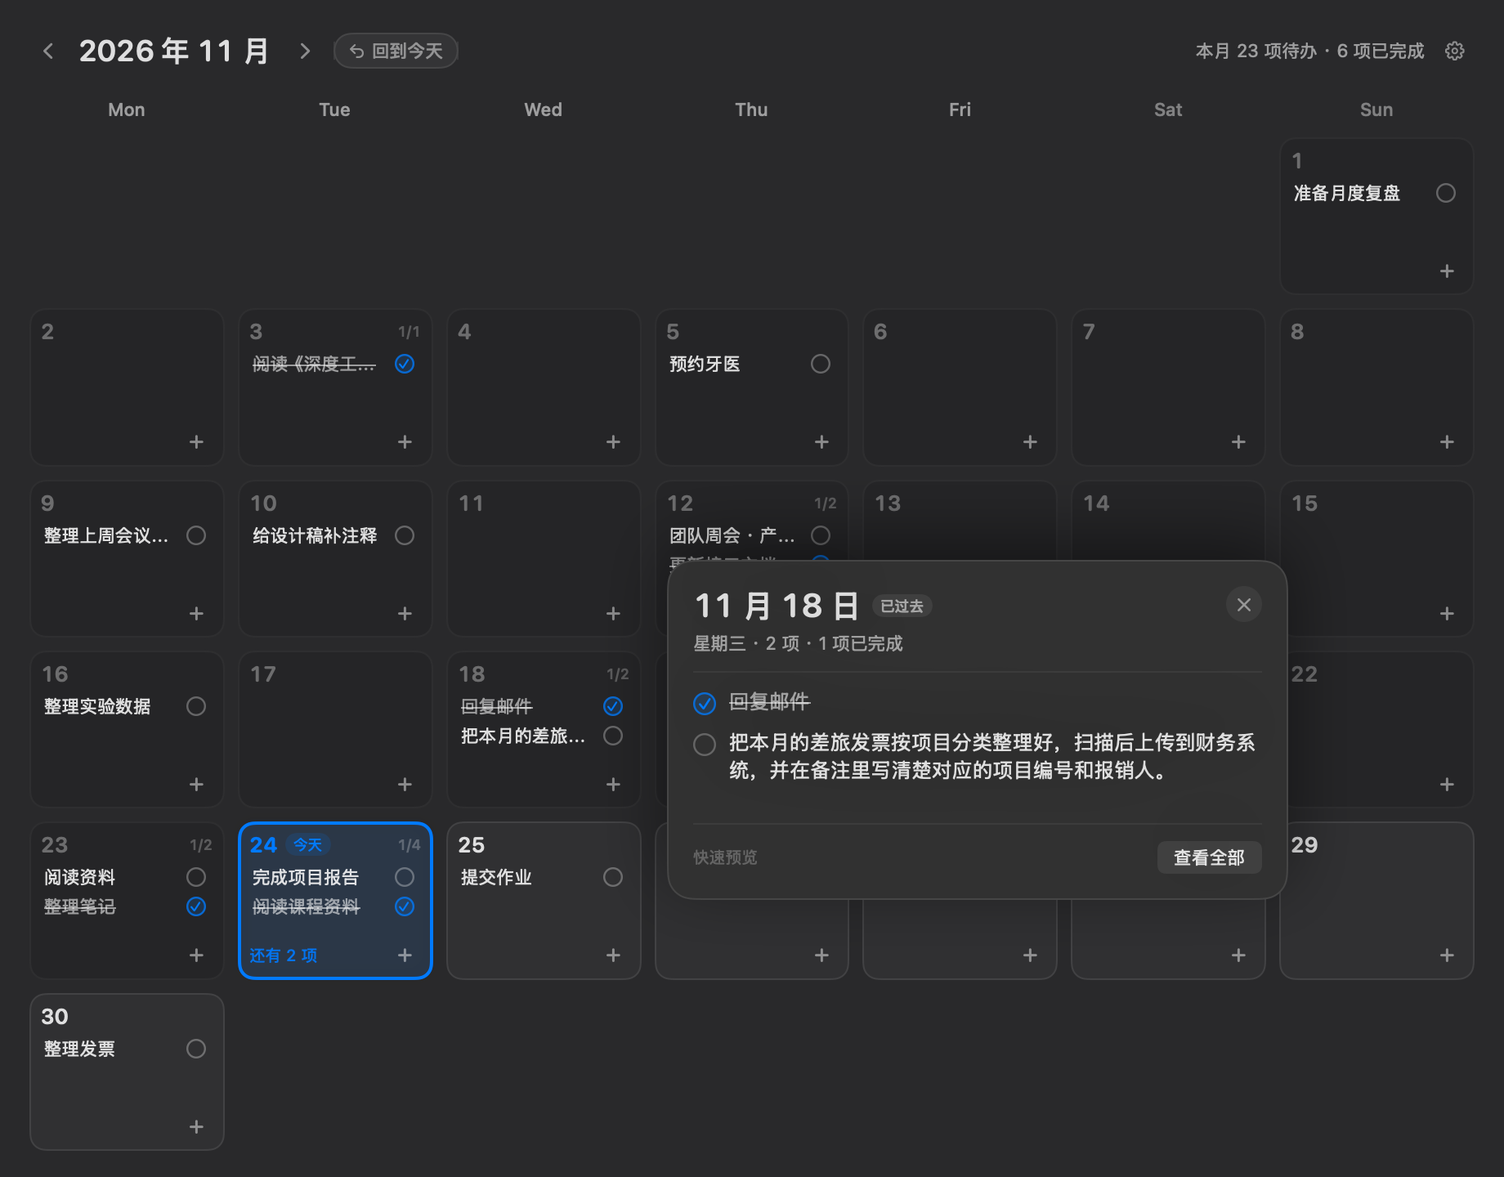
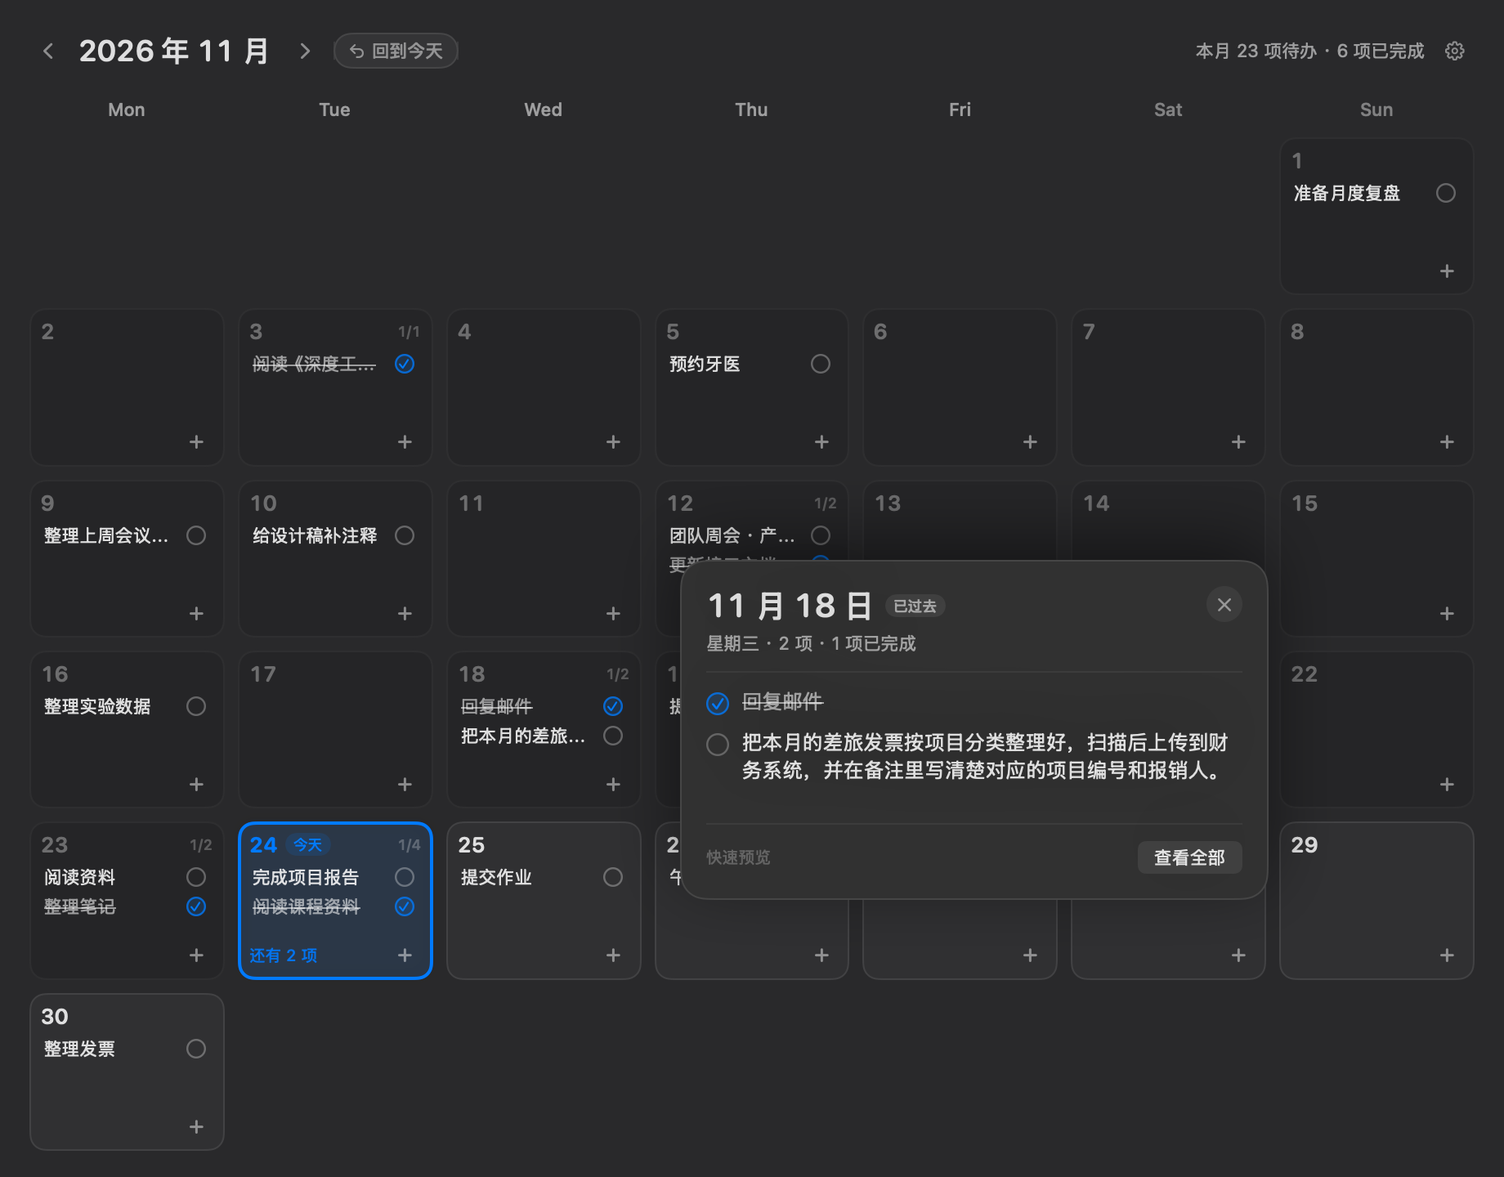
fix: keep hover preview clear of the hovered day
Move the hover card to a 360pt shell with a 24pt gap, keep the day box frame fresh on every layout, and add no-overlap tests for every position in 4/5/6-row months.

diff --git a/MemoBar/Views/HoverPreviewView.swift b/MemoBar/Views/HoverPreviewView.swift
@@ -23,8 +23,8 @@ struct HoverPreviewOverlay: View {
     }
 }
 
-/// Measures the card, then decides whether it sits to the right or the left of
-/// the hovered day box.
+/// Places the card beside the hovered day box. The placement math lives in
+/// `HoverPreviewLayout` and guarantees the card never covers the anchor box.
 private struct HoverPreviewPlacement: View {
     let dateKey: String
     let anchorFrame: CGRect
@@ -32,44 +32,21 @@ private struct HoverPreviewPlacement: View {
 
     @EnvironmentObject private var store: MemoStore
 
-    private let margin: CGFloat = 14
-    private let gap: CGFloat = 16
-
     var body: some View {
         let items = store.items(for: dateKey)
         let size = CGSize(
-            width: HoverPreviewMetrics.width,
-            height: HoverPreviewMetrics.cardHeight(for: items)
+            width: HoverPreviewLayout.width,
+            height: HoverPreviewLayout.cardHeight(for: items)
+        )
+        let origin = HoverPreviewLayout.cardOrigin(
+            anchor: anchorFrame,
+            panelSize: panelSize,
+            cardSize: size
         )
 
         HoverPreviewCard(dateKey: dateKey)
-            .frame(width: HoverPreviewMetrics.width)
-            .position(position(for: size))
-    }
-
-    private func position(for size: CGSize) -> CGPoint {
-        let width = size.width
-        let height = size.height
-
-        let rightSpace = panelSize.width - anchorFrame.maxX - margin
-        let leftSpace = anchorFrame.minX - margin
-        let required = width + gap
-
-        var x: CGFloat
-        if rightSpace >= required {
-            x = anchorFrame.maxX + gap + width / 2
-        } else if leftSpace >= required {
-            x = anchorFrame.minX - gap - width / 2
-        } else {
-            x = rightSpace >= leftSpace
-                ? anchorFrame.maxX + gap + width / 2
-                : anchorFrame.minX - gap - width / 2
-        }
-        x = min(max(x, margin + width / 2), panelSize.width - margin - width / 2)
-
-        var y = anchorFrame.midY
-        y = min(max(y, margin + height / 2), panelSize.height - margin - height / 2)
-        return CGPoint(x: x, y: y)
+            .frame(width: size.width)
+            .position(x: origin.x + size.width / 2, y: origin.y + size.height / 2)
     }
 }
 
@@ -87,10 +64,10 @@ private struct HoverPreviewCard: View {
         let completed = items.reduce(into: 0) { count, item in
             if item.isCompleted { count += 1 }
         }
-        let estimatedHeight = HoverPreviewMetrics.estimatedItemsHeight(for: items)
+        let estimatedHeight = HoverPreviewLayout.estimatedItemsHeight(for: items)
         let effectiveHeight = measuredItemsHeight > 0 ? measuredItemsHeight : estimatedHeight
-        let itemsViewport = min(max(effectiveHeight, 1), HoverPreviewMetrics.maxItemsHeight)
-        let scrolls = effectiveHeight > HoverPreviewMetrics.maxItemsHeight
+        let itemsViewport = min(max(effectiveHeight, 1), HoverPreviewLayout.maxItemsHeight)
+        let scrolls = effectiveHeight > HoverPreviewLayout.maxItemsHeight
 
         VStack(alignment: .leading, spacing: 0) {
             header(items: items, completed: completed)
@@ -122,7 +99,7 @@ private struct HoverPreviewCard: View {
                 .padding(.top, 10)
         }
         .padding(16)
-        .frame(width: HoverPreviewMetrics.width, alignment: .leading)
+        .frame(width: HoverPreviewLayout.width, alignment: .leading)
         .background {
             ZStack {
                 RoundedRectangle(cornerRadius: 16, style: .continuous)
@@ -213,37 +190,6 @@ private struct HoverPreviewCard: View {
         }
     }
 
-}
-
-/// Geometry shared by the card, its scroll viewport and the positioning logic.
-enum HoverPreviewMetrics {
-    static let width: CGFloat = 380
-    static let maxItemsHeight: CGFloat = 360
-    static let chromeHeight: CGFloat = 116
-
-    /// Rough content height used for positioning before the card has laid out.
-    static func estimatedItemsHeight(for items: [MemoItem]) -> CGFloat {
-        guard !items.isEmpty else { return 30 }
-        let usableWidth: CGFloat = width - 32 - 14 - 8
-        let charsPerLine = max(12, usableWidth / 12.5)
-
-        var lineCount: CGFloat = 0
-        for item in items {
-            let visualLength = item.text.reduce(CGFloat(0)) { length, character in
-                length + (character.isASCII ? 0.55 : 1)
-            }
-            lineCount += max(1, ceil(visualLength / charsPerLine))
-        }
-        return lineCount * 18 + CGFloat(items.count) * 9 + 20
-    }
-
-    static func cardHeight(for items: [MemoItem]) -> CGFloat {
-        let itemsHeight = min(
-            max(estimatedItemsHeight(for: items), 1),
-            maxItemsHeight
-        )
-        return chromeHeight + itemsHeight
-    }
 }
 
 private struct HoverPreviewItemRow: View {

diff --git a/MemoBar/Models/HoverPreviewLayout.swift b/MemoBar/Models/HoverPreviewLayout.swift
@@ -1,0 +1,93 @@
+import CoreGraphics
+import Foundation
+
+/// Geometry and placement for the hover "quick look" card. Kept in the model
+/// layer so the no-overlap guarantee can be unit tested without SwiftUI.
+enum HoverPreviewLayout {
+    static let width: CGFloat = 360
+    static let maxItemsHeight: CGFloat = 360
+    static let chromeHeight: CGFloat = 116
+    static let gap: CGFloat = 24
+    static let margin: CGFloat = 14
+
+    /// Rough content height, used only to place the card before the actual
+    /// scroll area has laid out.
+    static func estimatedItemsHeight(for items: [MemoItem]) -> CGFloat {
+        guard !items.isEmpty else { return 30 }
+        let usableWidth = width - 32 - 14 - 8
+        let charsPerLine = max(12, usableWidth / 12.5)
+
+        var lineCount: CGFloat = 0
+        for item in items {
+            let visualLength = item.text.reduce(CGFloat(0)) { length, character in
+                length + (character.isASCII ? 0.55 : 1)
+            }
+            lineCount += max(1, ceil(visualLength / charsPerLine))
+        }
+        return lineCount * 18 + CGFloat(items.count) * 9 + 20
+    }
+
+    static func cardHeight(for items: [MemoItem]) -> CGFloat {
+        let itemsHeight = min(
+            max(estimatedItemsHeight(for: items), 1),
+            maxItemsHeight
+        )
+        return chromeHeight + itemsHeight
+    }
+
+    /// Top-left origin for the card in panel coordinates. The card is placed to
+    /// the right or left of the day box with a gap, and only falls back to
+    /// above/below if neither side fits. It therefore never covers the hovered
+    /// day box.
+    static func cardOrigin(anchor: CGRect, panelSize: CGSize, cardSize: CGSize) -> CGPoint {
+        let cardWidth = cardSize.width
+        let cardHeight = cardSize.height
+        let rightSpace = panelSize.width - anchor.maxX - margin
+        let leftSpace = anchor.minX - margin
+        let required = cardWidth + gap
+
+        var x: CGFloat
+        if rightSpace >= required {
+            x = anchor.maxX + gap
+        } else if leftSpace >= required {
+            x = anchor.minX - gap - cardWidth
+        } else {
+            // Keep the card on the roomier side; with the 360 pt card on a
+            // 920 pt panel this branch is normally unreachable.
+            x = rightSpace >= leftSpace
+                ? panelSize.width - margin - cardWidth
+                : margin
+        }
+        x = min(max(x, margin), panelSize.width - margin - cardWidth)
+
+        var y = anchor.midY - cardHeight / 2
+        y = min(max(y, margin), panelSize.height - margin - cardHeight)
+
+        var frame = CGRect(x: x, y: y, width: cardWidth, height: cardHeight)
+
+        // Safety net: if clamping ever produced an overlap, move the card above
+        // or below the anchor instead of covering it.
+        if frame.intersects(anchor) {
+            let centeredX = min(
+                max(anchor.midX - cardWidth / 2, margin),
+                panelSize.width - margin - cardWidth
+            )
+            let below = anchor.maxY + gap
+            let above = anchor.minY - gap - cardHeight
+            if below + cardHeight <= panelSize.height - margin {
+                frame.origin = CGPoint(x: centeredX, y: below)
+            } else if above >= margin {
+                frame.origin = CGPoint(x: centeredX, y: above)
+            }
+        }
+
+        return frame.origin
+    }
+
+    static func cardFrame(anchor: CGRect, panelSize: CGSize, cardSize: CGSize) -> CGRect {
+        CGRect(
+            origin: cardOrigin(anchor: anchor, panelSize: panelSize, cardSize: cardSize),
+            size: cardSize
+        )
+    }
+}

diff --git a/Tests/MemoBarTests.swift b/Tests/MemoBarTests.swift
@@ -159,6 +159,47 @@ struct MemoBarTests {
         hoverPanel.dismissHoverPreview()
         expect(hoverPanel.hoverPreview == nil, "explicit dismissal clears the card")
 
+        print("Hover preview placement")
+        let panelSize = CGSize(width: PanelMetrics.width, height: PanelMetrics.height)
+        let horizontalPadding: CGFloat = 18
+        let columnWidth = (panelSize.width - horizontalPadding * 2 - PanelMetrics.gridSpacing * 6) / 7
+        let gridTop: CGFloat = 16 + 30 + 12 + 18 + 8
+        let cardHeights: [CGFloat] = [150, 300, HoverPreviewLayout.chromeHeight + HoverPreviewLayout.maxItemsHeight]
+
+        for rows in [4, 5, 6] {
+            let rowHeight = (PanelMetrics.gridAreaHeight - CGFloat(rows - 1) * PanelMetrics.gridSpacing) / CGFloat(rows)
+            var problems: [String] = []
+
+            for row in 0..<rows {
+                for column in 0..<7 {
+                    let anchor = CGRect(
+                        x: horizontalPadding + CGFloat(column) * (columnWidth + PanelMetrics.gridSpacing),
+                        y: gridTop + CGFloat(row) * (rowHeight + PanelMetrics.gridSpacing),
+                        width: columnWidth,
+                        height: rowHeight
+                    )
+                    for cardHeight in cardHeights {
+                        let cardSize = CGSize(width: HoverPreviewLayout.width, height: cardHeight)
+                        let frame = HoverPreviewLayout.cardFrame(
+                            anchor: anchor,
+                            panelSize: panelSize,
+                            cardSize: cardSize
+                        )
+                        if frame.intersects(anchor) {
+                            problems.append("overlaps row \(row) column \(column) height \(cardHeight)")
+                        }
+                        let safeBounds = CGRect(origin: .zero, size: panelSize)
+                            .insetBy(dx: HoverPreviewLayout.margin - 0.5, dy: HoverPreviewLayout.margin - 0.5)
+                        if !safeBounds.contains(frame) {
+                            problems.append("outside panel row \(row) column \(column)")
+                        }
+                    }
+                }
+            }
+
+            expect(problems.isEmpty, "hover card stays clear of every day box in \(rows)-row months")
+        }
+
         print("")
         if failures == 0 {
             print("All \(checks) checks passed.")

diff --git a/MemoBar/Views/DayBoxView.swift b/MemoBar/Views/DayBoxView.swift
@@ -61,12 +61,17 @@ struct DayBoxView: View {
         )
         .background(
             GeometryReader { proxy in
+                let frame = proxy.frame(in: .global)
                 Color.clear
-                    .onAppear {
-                        boxFrame = proxy.frame(in: .global)
-                    }
+                    .onAppear { boxFrame = frame }
+                    .preference(key: DayBoxFramePreferenceKey.self, value: frame)
             }
         )
+        .onPreferenceChange(DayBoxFramePreferenceKey.self) { frame in
+            if frame != boxFrame {
+                boxFrame = frame
+            }
+        }
         .contentShape(RoundedRectangle(cornerRadius: Theme.boxCornerRadius, style: .continuous))
         .onHover { inside in
             hovering = inside
@@ -194,5 +199,13 @@ struct DayBoxView: View {
                 radius: isToday ? 5 : 2,
                 y: 1
             )
+    }
+}
+
+private struct DayBoxFramePreferenceKey: PreferenceKey {
+    static var defaultValue: CGRect = .zero
+
+    static func reduce(value: inout CGRect, nextValue: () -> CGRect) {
+        value = nextValue()
     }
 }

diff --git a/README.md b/README.md
@@ -107,7 +107,8 @@ make preview
 │   │   ├── DateKey.swift             # 日期字符串、周一起始日历、中文日期文案
 │   │   ├── MemoItem.swift            # 条目与顶层数据模型
 │   │   ├── MonthGrid.swift           # 月历网格（前导空格、行数、日期）
-│   │   └── PanelMetrics.swift        # 面板尺寸常量
+│   │   ├── PanelMetrics.swift        # 面板尺寸常量
+│   │   └── HoverPreviewLayout.swift  # 悬停卡片尺寸、定位、不遮挡计算
 │   ├── Services
 │   │   ├── MemoFileStore.swift       # JSON 原子读写、备份、损坏恢复
 │   │   └── LaunchAtLogin.swift       # LaunchAgent 开机启动
@@ -128,7 +129,7 @@ make preview
 │       ├── Info.plist
 │       ├── AppIcon.icns
 │       └── AppIcon-1024.png
-├── Tests/MemoBarTests.swift          # 55 项模型、持久化与悬停状态检查
+├── Tests/MemoBarTests.swift          # 58 项模型、持久化、悬停状态与布局检查
 ├── Tools/PreviewRender/PreviewRenderer.swift  # 离屏 NSWindow 截图工具
 ├── scripts                           # build / test / preview / icon
 ├── docs/screenshots                  # README 截图
@@ -144,13 +145,13 @@ make preview
 - `MenuBarExtra` 负责菜单栏入口和面板生命周期，内容全部在同一个面板中切换（月历 / 当天 / 设置），不叠加弹窗。
 - 面板关闭后没有轮询；日期刷新只依赖系统通知和下一次午夜的一次性定时器。
 - 日期框空白处的双击通过背景层的双击手势实现，按钮、日期数字和条目文字仍保留各自的点击/双击行为。
-- 悬停预览有 0.4 秒意图延迟；卡片会根据日期框在面板中的位置自动放在左侧或右侧，并夹在面板边界内，不遮挡当前日期框。日期框和卡片各自上报悬停状态，只有两者都离开才收起，因此从日期移入卡片不会误隐藏。卡片内容区按实际高度展开，超过 360 pt 后内部滚动。
+- 悬停预览有 0.4 秒意图延迟；卡片会根据日期框在面板中的位置自动放在左侧或右侧，并保证与当前日期框至少留出 24 pt 间距、不与其相交。布局逻辑抽到 `HoverPreviewLayout`，用 4/5/6 行月份的所有行列做了不遮挡与边界测试；日期框位置在每次布局后更新，避免换月后使用旧锚点。日期框和卡片各自上报悬停状态，只有两者都离开才收起。卡片内容区按实际高度展开，超过 360 pt 后内部滚动。
 - 已完成条目的灰色从浅色到深色模式都保持可读，过去日期的未完成事项仍使用正常文字色，与已完成事项区分。
 - 界面使用系统字体和 SF Symbols，不引入图片资源或 UI 框架。
 
 ## 验证情况
 
-- `make test`：55 项检查全部通过，覆盖闰年 2 月、4/5/6 行月份、跨年月份切换、Mon–Sun 星期表头、增删改、完成状态、排序、重启恢复、原子保存、备份恢复、损坏文件保留，以及悬停预览在两种事件顺序下的保留/收起行为。
+- `make test`：58 项检查全部通过，覆盖闰年 2 月、4/5/6 行月份、跨年月份切换、Mon–Sun 星期表头、增删改、完成状态、排序、重启恢复、原子保存、备份恢复、损坏文件保留，悬停预览在两种事件顺序下的保留/收起行为，以及 4/5/6 行月份下所有日期位置的卡片不遮挡与边界检查。
 - 已用离屏窗口渲染检查浅色/深色月历、4 行与 6 行月份、内联添加、编辑态、空状态、撤销提示、设置页，以及悬停放大卡片（含多条长事项的限高滚动）。
 - 使用真实窗口事件验证了日期框空白处双击会打开内联输入框。
 - 实际构建并启动后确认菜单栏出现可见的 `NSStatusBarWindow`（32 × 33 pt，遮挡状态包含 visible），进程以 `UIElement` 身份运行，无 Dock 图标；实际悬停验证中，日期框里被截断的条目在放大卡片中完整显示。启动后常驻内存约 75 MB（SwiftUI/AppKit 运行时为主）。
@@ -159,7 +160,7 @@ make preview
 
 - 仅保存本地数据，没有通知、重复事项、搜索、导入导出、iCloud 同步和全局快捷键（方案中列为后续项）。
 - 窗口尺寸固定为 920 × 720；在极小的屏幕或非常大的系统字体下，月历区域尚未实现纵向滚动。
-- 悬停预览只在有事项的日期出现；卡片最大约 380 × 480 pt，特别长的内容需要在卡片内滚动或进入当天详情查看。
+- 悬停预览只在有事项的日期出现；卡片最大约 360 × 480 pt，特别长的内容需要在卡片内滚动或进入当天详情查看。
 - `Esc` 用于取消日期框内的输入和条目编辑；关闭整个面板请点击图标或面板外部。
 - 构建脚本默认当前机器架构（Apple Silicon 构建为 arm64）。如需 Intel 版本，在 Intel Mac 上执行同样的 `make build`。
 - 没有 `.xcodeproj`，使用 `swiftc` + `scripts/build.sh` 打包；便于保持体积小，也方便后续迁移到 Xcode。

diff --git a/README.en.md b/README.en.md
@@ -107,7 +107,8 @@ The settings toggle uses a per-user LaunchAgent:
 │   │   ├── DateKey.swift             # date keys, Monday-first calendar, date copy
 │   │   ├── MemoItem.swift            # memo and database models
 │   │   ├── MonthGrid.swift           # month grid (leading blanks, rows, days)
-│   │   └── PanelMetrics.swift        # fixed panel geometry
+│   │   ├── PanelMetrics.swift        # fixed panel geometry
+│   │   └── HoverPreviewLayout.swift  # hover card size, placement, no-overlap math
 │   ├── Services
 │   │   ├── MemoFileStore.swift       # atomic JSON I/O, backups, corruption recovery
 │   │   └── LaunchAtLogin.swift       # LaunchAgent login item
@@ -128,7 +129,7 @@ The settings toggle uses a per-user LaunchAgent:
 │       ├── Info.plist
 │       ├── AppIcon.icns
 │       └── AppIcon-1024.png
-├── Tests/MemoBarTests.swift          # 55 model, persistence and hover-state checks
+├── Tests/MemoBarTests.swift          # 58 model, persistence, hover-state and layout checks
 ├── Tools/PreviewRender/PreviewRenderer.swift  # offscreen NSWindow snapshot tool
 ├── scripts                           # build / test / preview / icon
 ├── docs/screenshots                  # README images
@@ -144,13 +145,13 @@ The settings toggle uses a per-user LaunchAgent:
 - One `MenuBarExtra` panel hosts the month, day detail and settings — no stacked popovers.
 - Closed panels do no polling; date refresh relies on system notifications plus a single midnight timer.
 - Double-clicking empty space is a background-layer gesture; buttons, date numbers and memo text keep their own click/double-click behavior.
-- The hover card uses a 0.4 s intent delay, flips to the side with more room, and is clamped inside the panel so it never covers the hovered box. The day box and the card report hover independently, and the card hides only when both are left. The card grows to fit its content and scrolls internally beyond 360 pt.
+- The hover card uses a 0.4 s intent delay, flips to the side with more room, and keeps at least 24 pt from the hovered box; the placement math guarantees no intersection. It lives in `HoverPreviewLayout` and is tested for every row/column in 4/5/6-row months. Day-box frames refresh after every layout, so a month switch cannot leave a stale anchor. The day box and the card report hover independently, and the card hides only when both are left. The card grows to fit its content and scrolls internally beyond 360 pt.
 - Completed text keeps readable contrast in both appearances; unfinished memos on past dates keep normal text color.
 - The UI uses system fonts and SF Symbols, with no image assets or UI frameworks.
 
 ## Verification
 
-- `make test`: **55 checks pass**, covering leap February, 4/5/6-row months, year boundaries, the Mon–Sun header, CRUD, completion, ordering, restart recovery, atomic saves, backup recovery, corrupt-file preservation, and both hover event orderings.
+- `make test`: **58 checks pass**, covering leap February, 4/5/6-row months, year boundaries, the Mon–Sun header, CRUD, completion, ordering, restart recovery, atomic saves, backup recovery, corrupt-file preservation, both hover event orderings, and no-overlap/bounds placement for every day position across 4/5/6-row months.
 - Offscreen renders check light/dark month views, 4- and 6-row months, inline add, editing, empty states, undo, settings, and the hover card with a long scrollable list.
 - Real window events confirm that double-clicking empty space opens the inline editor.
 - A real build shows a visible menu bar `NSStatusBarWindow` (32 × 33 pt, occlusion state includes visible) and runs as a `UIElement` with no Dock icon; a real hover shows a truncated title in full in the card. Resident memory is about 75 MB (mostly the SwiftUI/AppKit runtime).
@@ -159,7 +160,7 @@ The settings toggle uses a per-user LaunchAgent:
 
 - Local-only data for now: no notifications, repeating memos, search, import/export, iCloud sync or global hotkey.
 - The window is fixed at 920 × 720; the calendar does not yet scroll vertically on very small screens or with very large system fonts.
-- The hover preview appears only on days with memos; the card is capped at about 380 × 480 pt, so extremely long content must be scrolled or opened in the day detail.
+- The hover preview appears only on days with memos; the card is capped at about 360 × 480 pt, so extremely long content must be scrolled or opened in the day detail.
 - `Esc` cancels inline input and editing; click the icon or outside the panel to close it.
 - The build script builds for the current machine architecture (arm64 on Apple Silicon). On an Intel Mac, run the same `make build`.
 - There is no `.xcodeproj`; the app is packaged with `swiftc` and `scripts/build.sh` to keep the bundle small. Migrating to an Xcode project later is straightforward.
